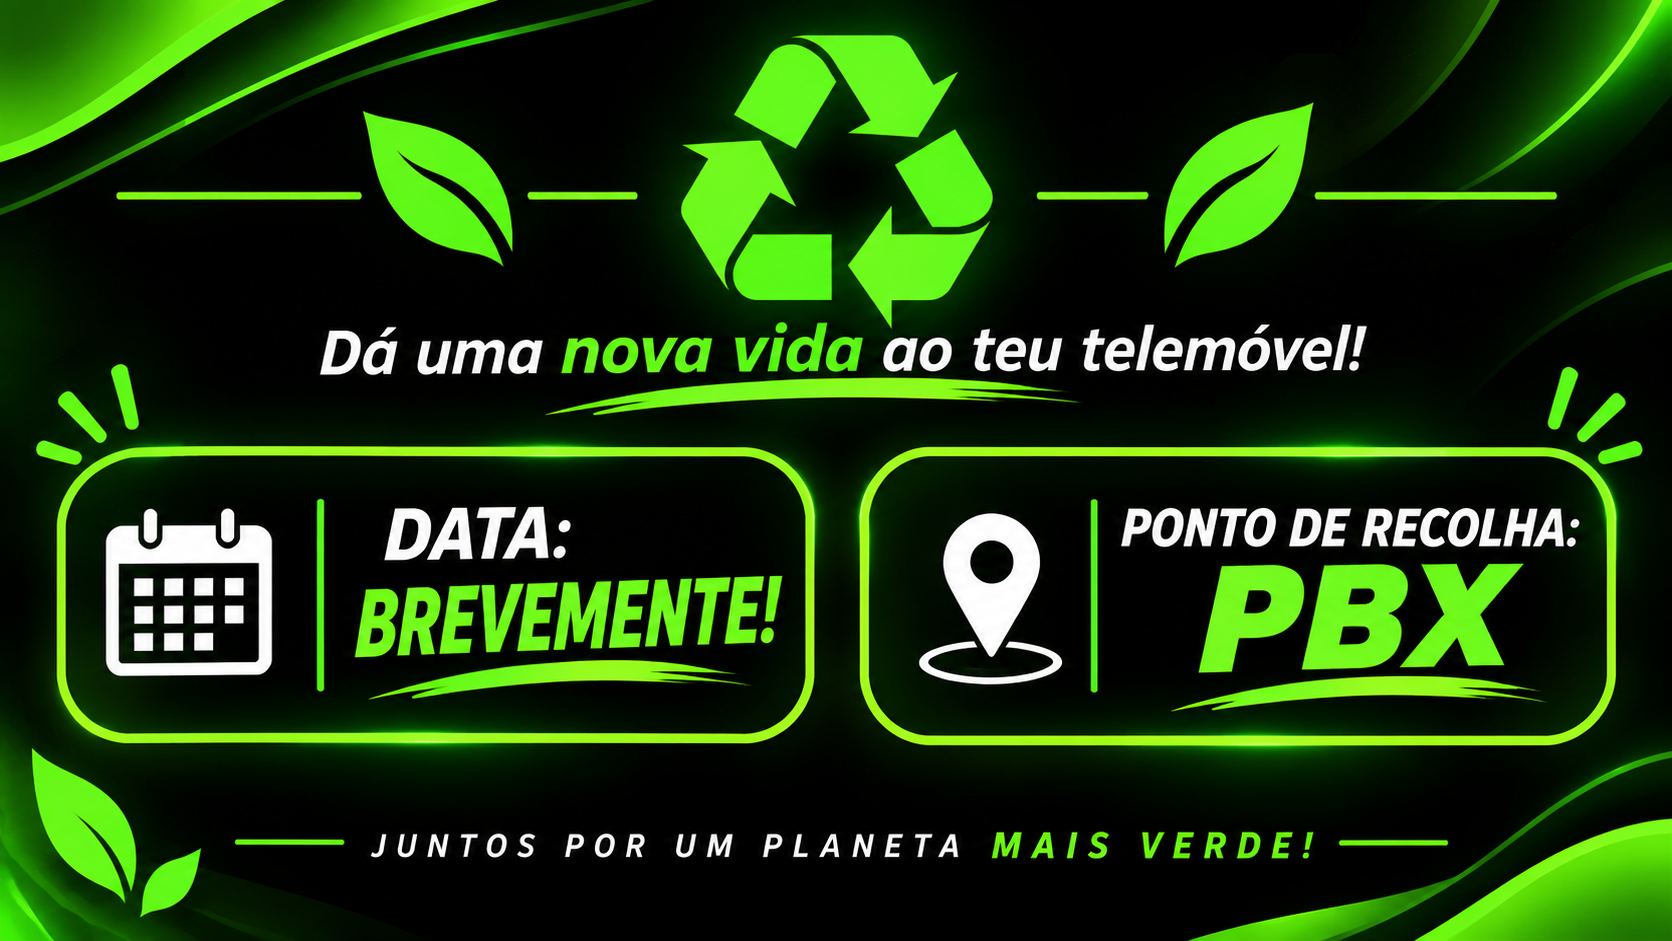
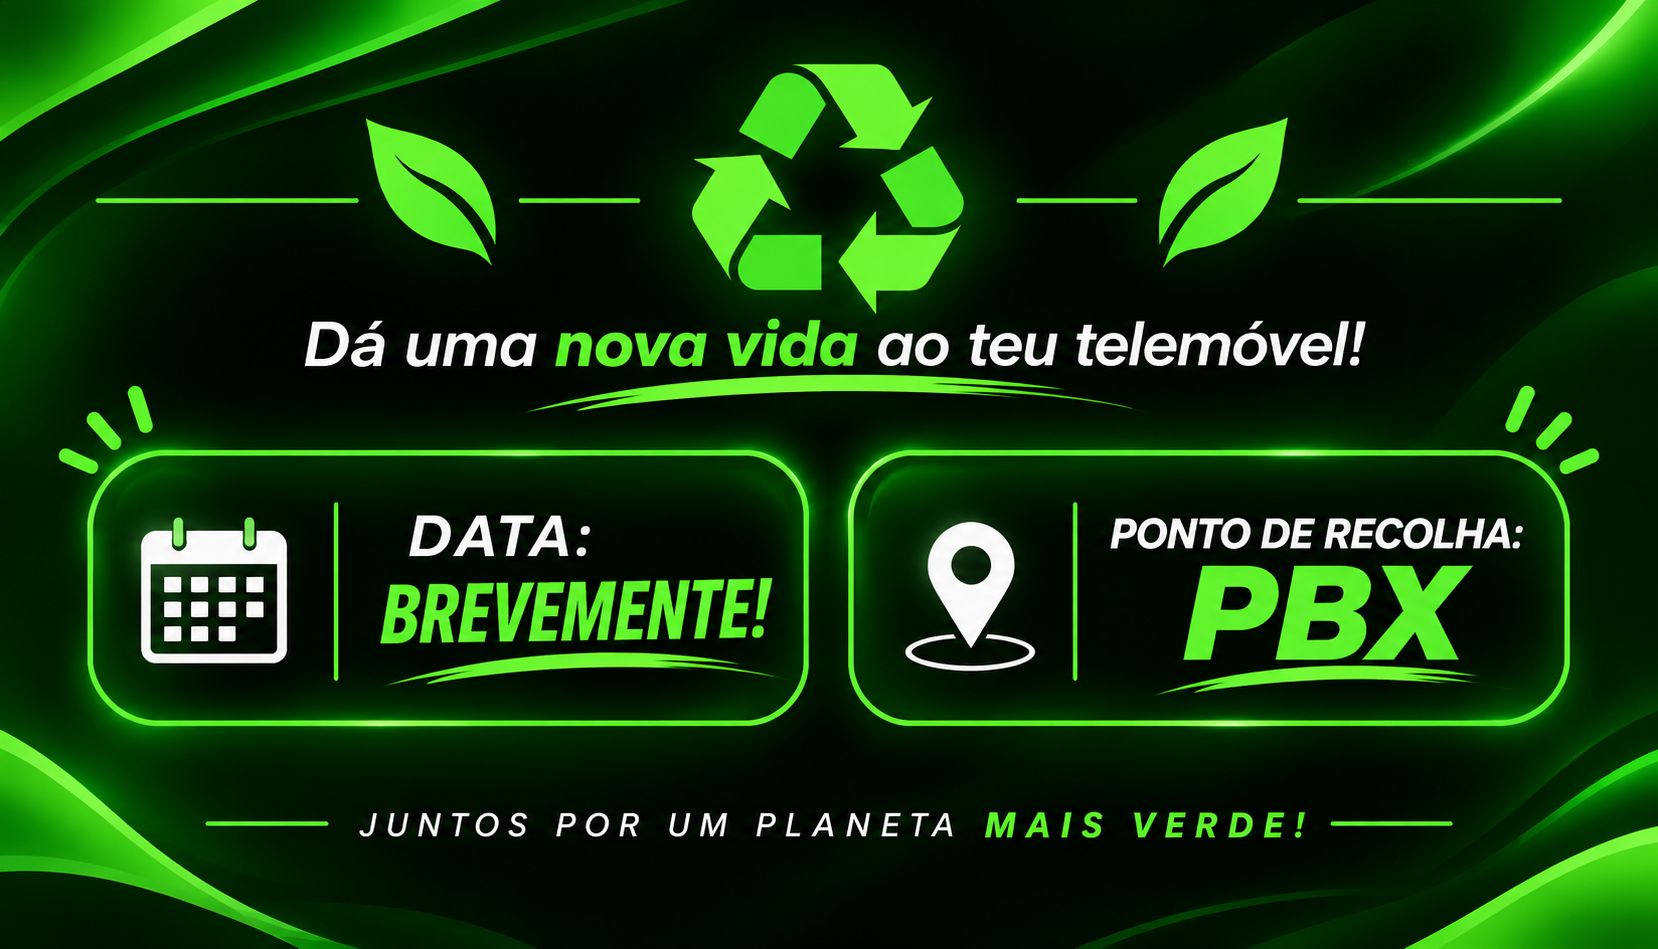
Objetivos, ainda por acabar 100%.

diff --git a/index.html b/index.html
@@ -42,12 +42,14 @@
             <img src="assets/images/2sla.PNG" alt="passo 2" class="two">
             <img src="assets/images/3sla.PNG" alt="passo 3" class="tree">
         </div>
-            <p>Os objetivos do projeto Eco Mobile são:</p>
+        <div class="objetivos">
+            <p>Os objetivos do projeto são:</p>
             <ol>
                 <li>Promover a reciclagem de dispositivos eletrónicos</li>
                 <li>Incentivar a reutilização de componentes</li>
                 <li>Educar a população sobre a importância da sustentabilidade</li>
             </ol>
+        </div>
         <h2 id="querParticipar">Quer participar?</h2>
         <div class="participar">
             <img src="assets/images/participar.PNG" alt="participar">

diff --git a/css/style.css b/css/style.css
@@ -442,3 +442,13 @@ main ol{
     padding-left: 20px;
 }
 
+.objetivos{
+    text-align: center;
+    font-weight: bold;
+    margin-bottom: 20px;
+    font-size: 40px;
+    margin-top: 10px;
+    padding: 20px;  
+}
+
+
